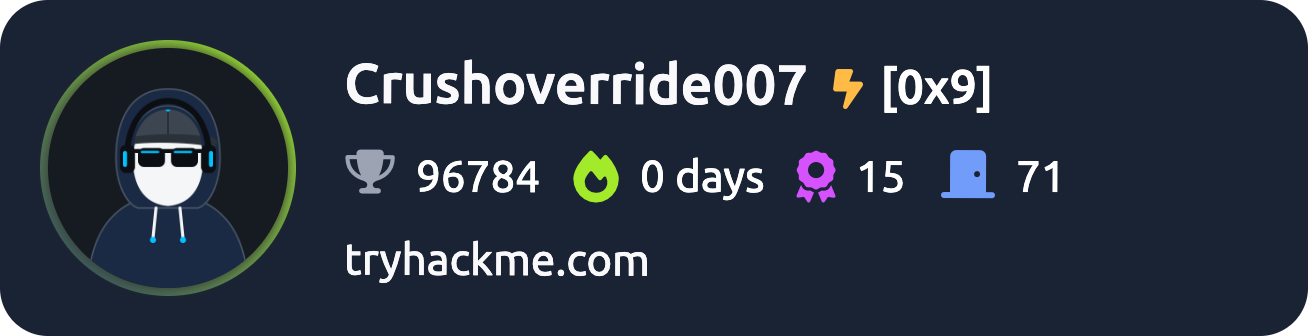
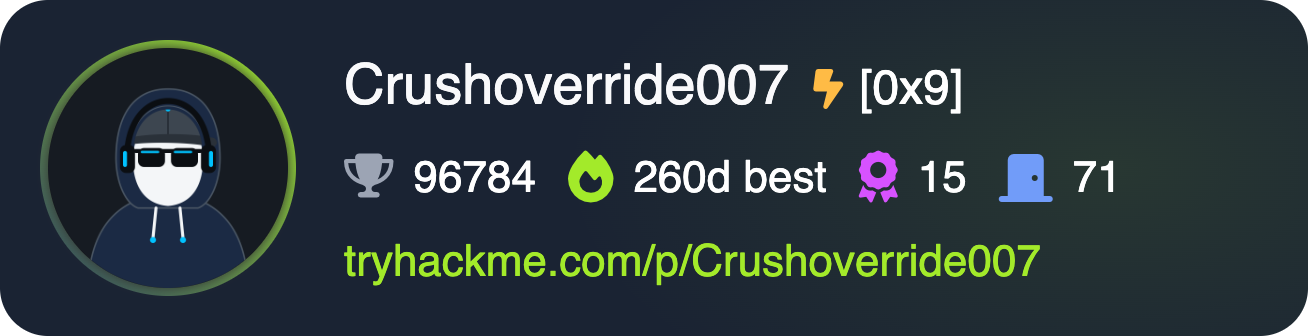
Swap the TryHackMe badge for the custom stats card
Same render as the profile README: badge layout with the 260-day best
streak added and the TryHackMe wordmark left off.

Changed region(s): [[0.2446, 0.4464, 0.8563, 0.625], [0.2446, 0.1786, 0.7645, 0.3571], [0.2446, 0.7143, 0.7951, 0.8631]]

diff --git a/src/components/sections/about.js b/src/components/sections/about.js
@@ -254,7 +254,7 @@ const About = () => {
               rel="noopener noreferrer"
               className="thm-badge"
               aria-label="TryHackMe profile">
-              <img src="/tryhackme-badge.png" width="327" height="84" alt="TryHackMe badge: Crushoverride007, rank 0x9" />
+              <img src="/tryhackme-badge.png" width="327" height="84" alt="TryHackMe stats: Crushoverride007, rank 0x9, 260-day best streak" />
             </a>
             <p>
               Hi, I am Mouhcine MESMOUKI Cyber Security Researcher with DevSecOps Orientation, I am an avid enthusiast of the field of computer science. I am always on the lookout for new opportunities to enhance my skills and stay at the forefront of the latest technologies.
